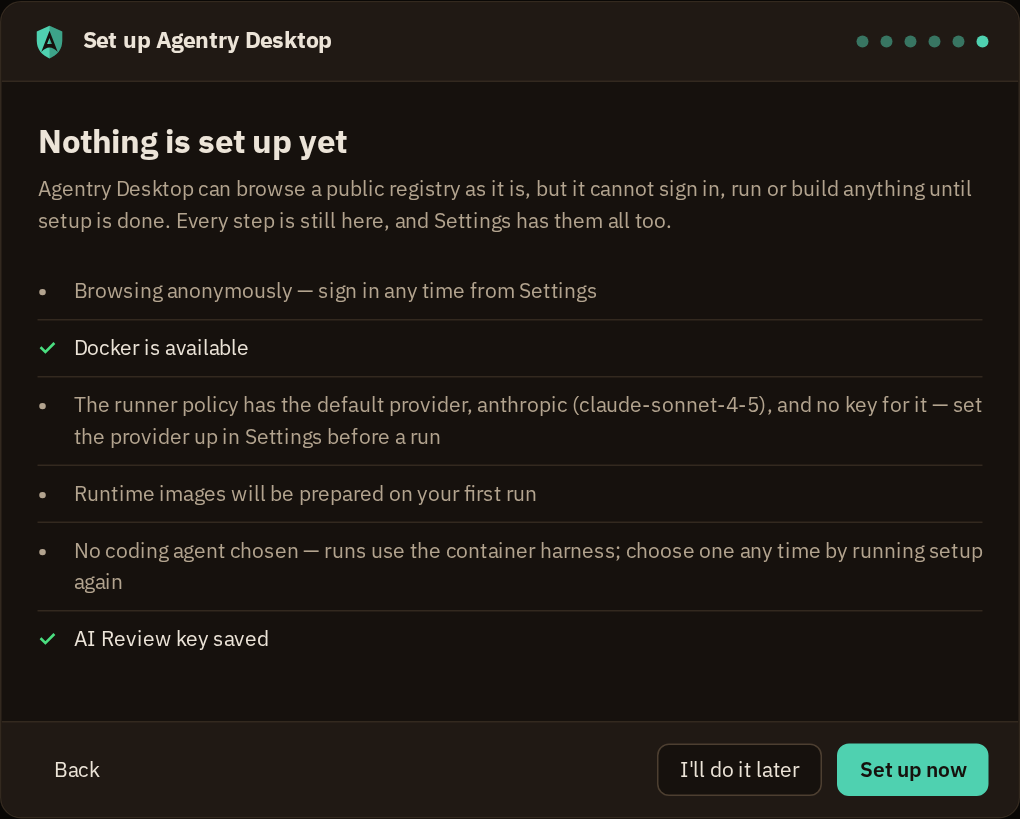
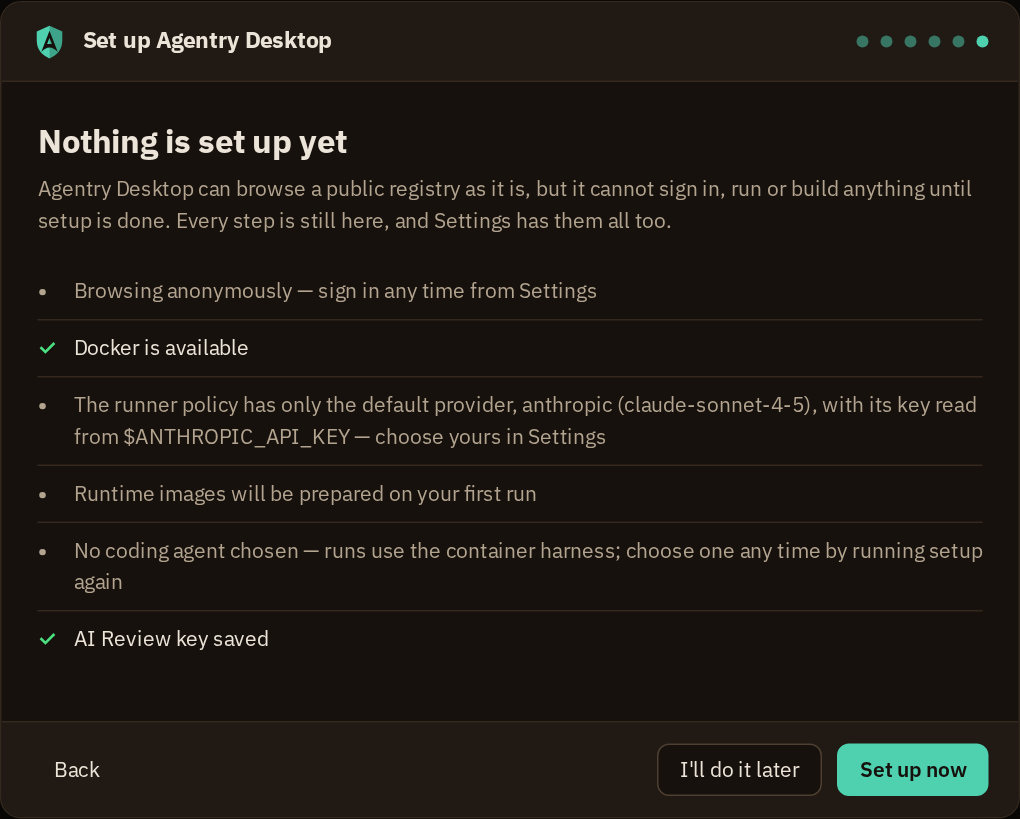
fix(wizard): a provider set up is the policy's model block alone; no keychain or variable clause
The second review of the fix found two false positives in ProviderSetUp.

With the default's variable set where the app was started, saving only the
AI Review key still flipped Done to "You're set up": the variable clause
was gated on the policy existing, and the key's save is what wrote it. And
the keychain clause counted a key the policy does not read (the default
block's source is the variable).

ProviderSetUp is now the policy's model block not being the default's, and
nothing else: no keychain, no variable, so nothing but a change to that
block can change it, and the key's save cannot. The default provider kept
on purpose with its key in the variable is the one choice it cannot tell
from no choice; the recap's row for a default-only policy therefore says
where the key is read from and claims nothing about whether one is there.

The test sets the variable and stores a key for the default provider
before the AI Review key is saved, so both false positives would fail it.

wizardRecap.ts takes the key's standing from its caller instead of
importing keyStanding by a .ts name, so tsconfig is as it was.

Refs #462 (D-051's errata)

Changed region(s): [[0.0912, 0.4884, 0.9725, 0.5495]]

diff --git a/frontend/src/wizardRecap.ts b/frontend/src/wizardRecap.ts
@@ -1,11 +1,12 @@
 import type { main } from "../wailsjs/go/models";
-import { keyStanding } from "./keyRecommendation.ts";
+import type { KeyStanding } from "./keyRecommendation";
 
 // The first-run wizard's recap rules that are worth holding in a test
 // (agentry-desktop#462; plan desktop-review-key-and-run-cards.md D13): the
 // AI Review key's row on Done, what Browse's "Setup isn't finished" notice
 // lists after "I'll do it later", and what counts as a provider set up.
-// Pure, with a type-only import, so node's own test runner can load it.
+// Pure, with type-only imports, so node's own test runner can load it: the
+// key's standing is the caller's to work out (keyRecommendation.ts).
 
 /** One line of the recap: a check for what is true, a bullet for what is
  *  not. aside: the row is a recommendation, not something the app needs
@@ -15,9 +16,9 @@ export type RecapRow = { ok: boolean; text: string; aside?: boolean };
 /** The AI Review key's row, or null when its status could not be read (a
  *  read that fails drops its line). It says where the key comes from and
  *  never what it is (D-040). */
-export function keyRow(k: main.JevKeyView | null): RecapRow | null {
+export function keyRow(k: { standing: KeyStanding; envName: string } | null): RecapRow | null {
   if (!k) return null;
-  switch (keyStanding(k)) {
+  switch (k.standing) {
     case "env":
       return { ok: true, text: `AI Review key from $${k.envName}`, aside: true };
     case "saved":
@@ -32,11 +33,14 @@ export function keyRow(k: main.JevKeyView | null): RecapRow | null {
 /** The provider's row. A policy that exists is not a provider set up:
  *  saving the AI Review key, choosing a coding agent and the first run each
  *  write the policy from defaults, so the row goes by providerSetUp (Go's
- *  run.Status) and says so when the policy holds only the default. */
+ *  run.Status: the policy's model block is not the default's). A policy
+ *  that holds only the default says that and where its key is read from,
+ *  and claims nothing about whether one is there. */
 export function providerRow(s: main.SetupStatusView | null): RecapRow {
-  if (s?.providerSetUp) return { ok: true, text: `Provider ${s.provider}${s.model ? ` (${s.model})` : ""} written to the runner policy` };
+  const named = s ? `${s.provider}${s.model ? ` (${s.model})` : ""}` : "";
+  if (s?.providerSetUp) return { ok: true, text: `Provider ${named} written to the runner policy` };
   if (s?.policyExists) {
-    return { ok: false, text: `The runner policy has the default provider, ${s.provider}${s.model ? ` (${s.model})` : ""}, and no key for it — set the provider up in Settings before a run` };
+    return { ok: false, text: `The runner policy has only the default provider, ${named}, with its key read from $${s.apiKeyEnv} — choose yours in Settings` };
   }
   return { ok: false, text: "Provider defaults will be written on your first run" };
 }
@@ -45,7 +49,8 @@ export function providerRow(s: main.SetupStatusView | null): RecapRow {
  *  the three things the wizard is for — a sign-in, a provider set up, a
  *  coding agent chosen. Docker being present is the machine's doing, and a
  *  saved AI Review key is a recommendation taken, so neither counts (D13);
- *  nor does the policy the key's save wrote from defaults. */
+ *  nor does the policy the key's save wrote from defaults, nor a variable
+ *  the shell happened to set. */
 export function nothingSetUp(v: { signedIn: boolean; setup: main.SetupStatusView | null; codingAgentChosen: boolean }): boolean {
   return !v.signedIn && !v.setup?.providerSetUp && !v.codingAgentChosen;
 }

diff --git a/frontend/tests/wizardRecap.test.ts b/frontend/tests/wizardRecap.test.ts
@@ -10,32 +10,31 @@ import assert from "node:assert/strict";
 import type { main } from "../wailsjs/go/models";
 import { keyRow, missingForNotice, nothingSetUp, providerRow } from "../src/wizardRecap.ts";
 
-const view = (v: Record<string, unknown>) => v as unknown as main.JevKeyView;
 const setup = (v: Record<string, unknown>) => v as unknown as main.SetupStatusView;
 
 test("a key in the keychain that the policy reads is a done row", () => {
   assert.deepEqual(
-    keyRow(view({ stored: true, source: "keyring", envName: "TYPESAFE_API_KEY", envSet: false, ready: true })),
+    keyRow({ standing: "saved", envName: "TYPESAFE_API_KEY" }),
     { ok: true, text: "AI Review key saved", aside: true },
   );
 });
 
 test("a key from the variable the app was started with names the variable, never a value", () => {
   assert.deepEqual(
-    keyRow(view({ stored: false, envName: "TYPESAFE_API_KEY", envSet: true, ready: true })),
+    keyRow({ standing: "env", envName: "TYPESAFE_API_KEY" }),
     { ok: true, text: "AI Review key from $TYPESAFE_API_KEY", aside: true },
   );
 });
 
 test("no key is a pending row that says what is off, and where to add one", () => {
   assert.deepEqual(
-    keyRow(view({ stored: false, envName: "TYPESAFE_API_KEY", envSet: false, ready: false })),
+    keyRow({ standing: "none", envName: "TYPESAFE_API_KEY" }),
     { ok: false, text: "No AI Review key — drafting on this computer is off until you add one in Settings", aside: true },
   );
 });
 
 test("a key the keychain holds but the policy does not read is pending, and says to save it again", () => {
-  const row = keyRow(view({ stored: true, source: "", envName: "TYPESAFE_API_KEY", envSet: false, ready: false }));
+  const row = keyRow({ standing: "unread", envName: "TYPESAFE_API_KEY" });
   assert.equal(row?.ok, false);
   assert.equal(row?.aside, true);
   assert.match(row?.text ?? "", /save it again/);
@@ -62,10 +61,10 @@ test("a provider somebody set up is a done row", () => {
   );
 });
 
-test("a policy written from defaults is not a provider set up, and the row says what is missing", () => {
+test("a policy written from defaults is not a provider set up, and the row claims nothing about a key", () => {
   assert.deepEqual(
-    providerRow(setup({ policyExists: true, providerSetUp: false, provider: "anthropic", model: "claude-sonnet-4-5" })),
-    { ok: false, text: "The runner policy has the default provider, anthropic (claude-sonnet-4-5), and no key for it — set the provider up in Settings before a run" },
+    providerRow(setup({ policyExists: true, providerSetUp: false, provider: "anthropic", model: "claude-sonnet-4-5", apiKeyEnv: "ANTHROPIC_API_KEY" })),
+    { ok: false, text: "The runner policy has only the default provider, anthropic (claude-sonnet-4-5), with its key read from $ANTHROPIC_API_KEY — choose yours in Settings" },
   );
 });
 

diff --git a/frontend/src/pages/Wizard.tsx b/frontend/src/pages/Wizard.tsx
@@ -15,6 +15,7 @@ import { RuntimeSetup } from "./RuntimeSetup";
 import { AIReviewKeyCard, type ReviewKeyState } from "./AIReviewKey";
 import { HarnessChooser, harnessLabel, type HarnessState } from "./CodingAgents";
 import { keyRow, missingForNotice, nothingSetUp, providerRow, type RecapRow } from "../wizardRecap";
+import { keyStanding } from "../keyRecommendation";
 
 const STEPS = ["Welcome", "Sign in", "Runtime", "AI Review key", "Coding agent", "Done"];
 
@@ -435,7 +436,7 @@ function DoneStep({
   ];
   // The key's row comes last and is an aside (D13): a recommendation, so
   // Browse's notice never lists it.
-  const keyLine = keyRow(keyStatus);
+  const keyLine = keyRow(keyStatus && { standing: keyStanding(keyStatus), envName: keyStatus.envName });
   if (keyLine) rows.push(keyLine);
 
   // Nothing set up (D10): the person did none of the three things this

diff --git a/internal/run/setup_test.go b/internal/run/setup_test.go
@@ -7,7 +7,6 @@ package run
 import (
 	"context"
 	"errors"
-	"fmt"
 	"os"
 	"path/filepath"
 	"reflect"
@@ -692,7 +691,9 @@ func TestGetStatusReadsTheMarkerNotTheKey(t *testing.T) {
 // Review key, choosing a coding agent and the first run each write it from
 // defaults. ProviderSetUp says which it is, so the first-run wizard does not
 // read a saved AI Review key as a provider written (agentry-desktop#462;
-// plan desktop-review-key-and-run-cards.md D13).
+// plan desktop-review-key-and-run-cards.md D13). Nothing but the policy's
+// model block decides it: not a key in the keychain the policy does not
+// read, and not the variable the default names.
 func TestAPolicyWrittenFromDefaultsIsNotAProviderSetUp(t *testing.T) {
 	jevKeychain(t)
 	withFakeDocker(t, &dockerx.Fake{AvailableErr: os.ErrPermission})
@@ -705,41 +706,41 @@ func TestAPolicyWrittenFromDefaultsIsNotAProviderSetUp(t *testing.T) {
 		}
 		return st
 	}
-	if st := status(); st.PolicyExists || st.ProviderSetUp {
-		t.Fatalf("a fresh machine: %+v", st)
-	}
-	// The AI Review key alone: the policy is written, no provider is set up.
 	var log strings.Builder
+	// The default's variable set where the app was started, and a key for
+	// the default provider in the keychain that no policy reads: neither is
+	// a provider set up, before the AI Review key is saved or after.
+	t.Setenv(policy.Default().Model.APIKeyEnv, "sk-ant-api-from-the-shell")
+	if err := StoreModelKey("anthropic", "sk-ant-api-example", &log); err != nil {
+		t.Fatal(err)
+	}
+	if st := status(); st.PolicyExists || st.ProviderSetUp {
+		t.Fatalf("before any policy: %+v", st)
+	}
 	if err := StoreJevKey(testJevKey, &log); err != nil {
 		t.Fatal(err)
 	}
-	if st := status(); !st.PolicyExists || st.ProviderSetUp {
+	st := status()
+	if !st.PolicyExists || st.ProviderSetUp {
 		t.Fatalf("after the AI Review key alone: policyExists %v providerSetUp %v; want the policy written and no provider set up", st.PolicyExists, st.ProviderSetUp)
 	}
-	// The default provider with a key of its own in the keychain is set up.
-	if err := ApplySetup(ctx, SetupOpts{Provider: "anthropic", StoreKey: "sk-ant-api-example"}, &log); err != nil {
+	if !slices.Contains(st.KeysStored, "anthropic") {
+		t.Fatalf("the fixture's keychain entry is not listed: %v", st.KeysStored)
+	}
+	// The provider form's save records the keychain as the key's source:
+	// the model block is no longer the default's.
+	if err := ApplySetup(ctx, SetupOpts{Provider: "anthropic", APIKeySource: "keyring"}, &log); err != nil {
 		t.Fatal(err)
 	}
 	if st := status(); !st.ProviderSetUp {
-		t.Fatalf("after the default provider's key was stored: %+v", st)
+		t.Fatalf("after the provider was saved with its key in the keychain: %+v", st)
 	}
-	// The key forgotten, the policy's model block is the default's again
-	// and nothing is there to run with: not set up.
+	// The key forgotten, the block is the default's again.
 	if err := ApplySetup(ctx, SetupOpts{Provider: "anthropic", ForgetKey: true}, &log); err != nil {
 		t.Fatal(err)
 	}
-	if st := status(); len(st.KeysStored) != 0 || st.ProviderSetUp {
-		t.Fatalf("after the key was forgotten: keysStored %v providerSetUp %v", st.KeysStored, st.ProviderSetUp)
-	}
-	// The variable the policy names, set where the app was started, is a
-	// key to run with; only its presence is read.
-	t.Setenv(policy.Default().Model.APIKeyEnv, "sk-ant-api-from-the-shell")
-	st := status()
-	if !st.ProviderSetUp {
-		t.Fatalf("with the policy's variable set: %+v", st)
-	}
-	if strings.Contains(fmt.Sprintf("%+v", st), "sk-ant-api-from-the-shell") {
-		t.Fatalf("the status carries the variable's value: %+v", st)
+	if st := status(); st.ProviderSetUp {
+		t.Fatalf("after the key was forgotten: %+v", st)
 	}
 }
 

diff --git a/internal/run/setup.go b/internal/run/setup.go
@@ -12,7 +12,6 @@ import (
 	"os"
 	"path/filepath"
 	"reflect"
-	"slices"
 	"strings"
 
 	"github.com/blaktron/agentry-cli/pkg/runner/dockerx"
@@ -44,10 +43,11 @@ type Status struct {
 	// the first run each write the policy from defaults, and a page that
 	// read PolicyExists as "a provider was chosen" would say so of a person
 	// who chose none (agentry-desktop#462). It is true when the policy's
-	// model block is not the default's, or a key for its provider is there
-	// to run with: in the keychain, or in the variable the policy names,
-	// set where this app was started (its presence is read, never its
-	// value).
+	// model block is not the default's: a provider, a model, a key source
+	// or an endpoint was chosen. It reads no keychain and no variable, so
+	// nothing but a change to that block can change it; the default
+	// provider kept on purpose with its key in the variable is the one
+	// choice it cannot tell from no choice.
 	ProviderSetUp bool
 	Provider      string
 	Model         string
@@ -130,9 +130,7 @@ func GetStatus(ctx context.Context) (*Status, error) {
 			st.KeysStored = append(st.KeysStored, provider)
 		}
 	}
-	st.ProviderSetUp = st.PolicyExists && (!reflect.DeepEqual(pol.Model, policy.Default().Model) ||
-		slices.Contains(st.KeysStored, pol.Model.Provider) ||
-		(pol.Model.APIKeyEnv != "" && os.Getenv(pol.Model.APIKeyEnv) != ""))
+	st.ProviderSetUp = st.PolicyExists && !reflect.DeepEqual(pol.Model, policy.Default().Model)
 	st.BaseURL = pol.Model.BaseURL
 	st.TimeoutSeconds = pol.Budgets.TimeoutSeconds
 	st.MaxTurns = pol.Budgets.MaxTurns

diff --git a/services_run.go b/services_run.go
@@ -241,10 +241,9 @@ type SetupStatusView struct {
 	DockerErr    string `json:"dockerErr,omitempty"`
 	PolicyPath   string `json:"policyPath"`
 	PolicyExists bool   `json:"policyExists"`
-	// ProviderSetUp: the policy names a provider somebody set up (a model
-	// block that is not the default's, or a key for it in the keychain or
-	// in its variable), not only one written from defaults by another
-	// step (#462).
+	// ProviderSetUp: the policy's model block is not the default's, so
+	// somebody chose a provider, a model, a key source or an endpoint; a
+	// policy another step wrote from defaults is not that (#462).
 	ProviderSetUp bool   `json:"providerSetUp"`
 	Provider      string `json:"provider"`
 	Model         string `json:"model"`

diff --git a/frontend/harness/README.md b/frontend/harness/README.md
@@ -199,8 +199,8 @@ the key's; `wizard-done-nothing` asserts the key's row pending under
 "Nothing is set up yet"; and `#5-keyonly` (`wizard-done-key-only`) is Done
 after the key alone was saved, where the policy exists only because that
 save wrote it from defaults: the ending is still Nothing set up, the
-provider's row says the policy has the default and no key for it, and the
-key's row is checked. `#2-refused` is a save the backend
+provider's row says the policy has only the default and where its key is
+read from, and the key's row is checked. `#2-refused` is a save the backend
 refuses after the key was stored: `shots.mjs` types the custom endpoint's
 form, clicks Save, and fails unless the refusal shows and the key field is
 empty and says the key is stored (agentry-desktop#141, #378). The wizard's
